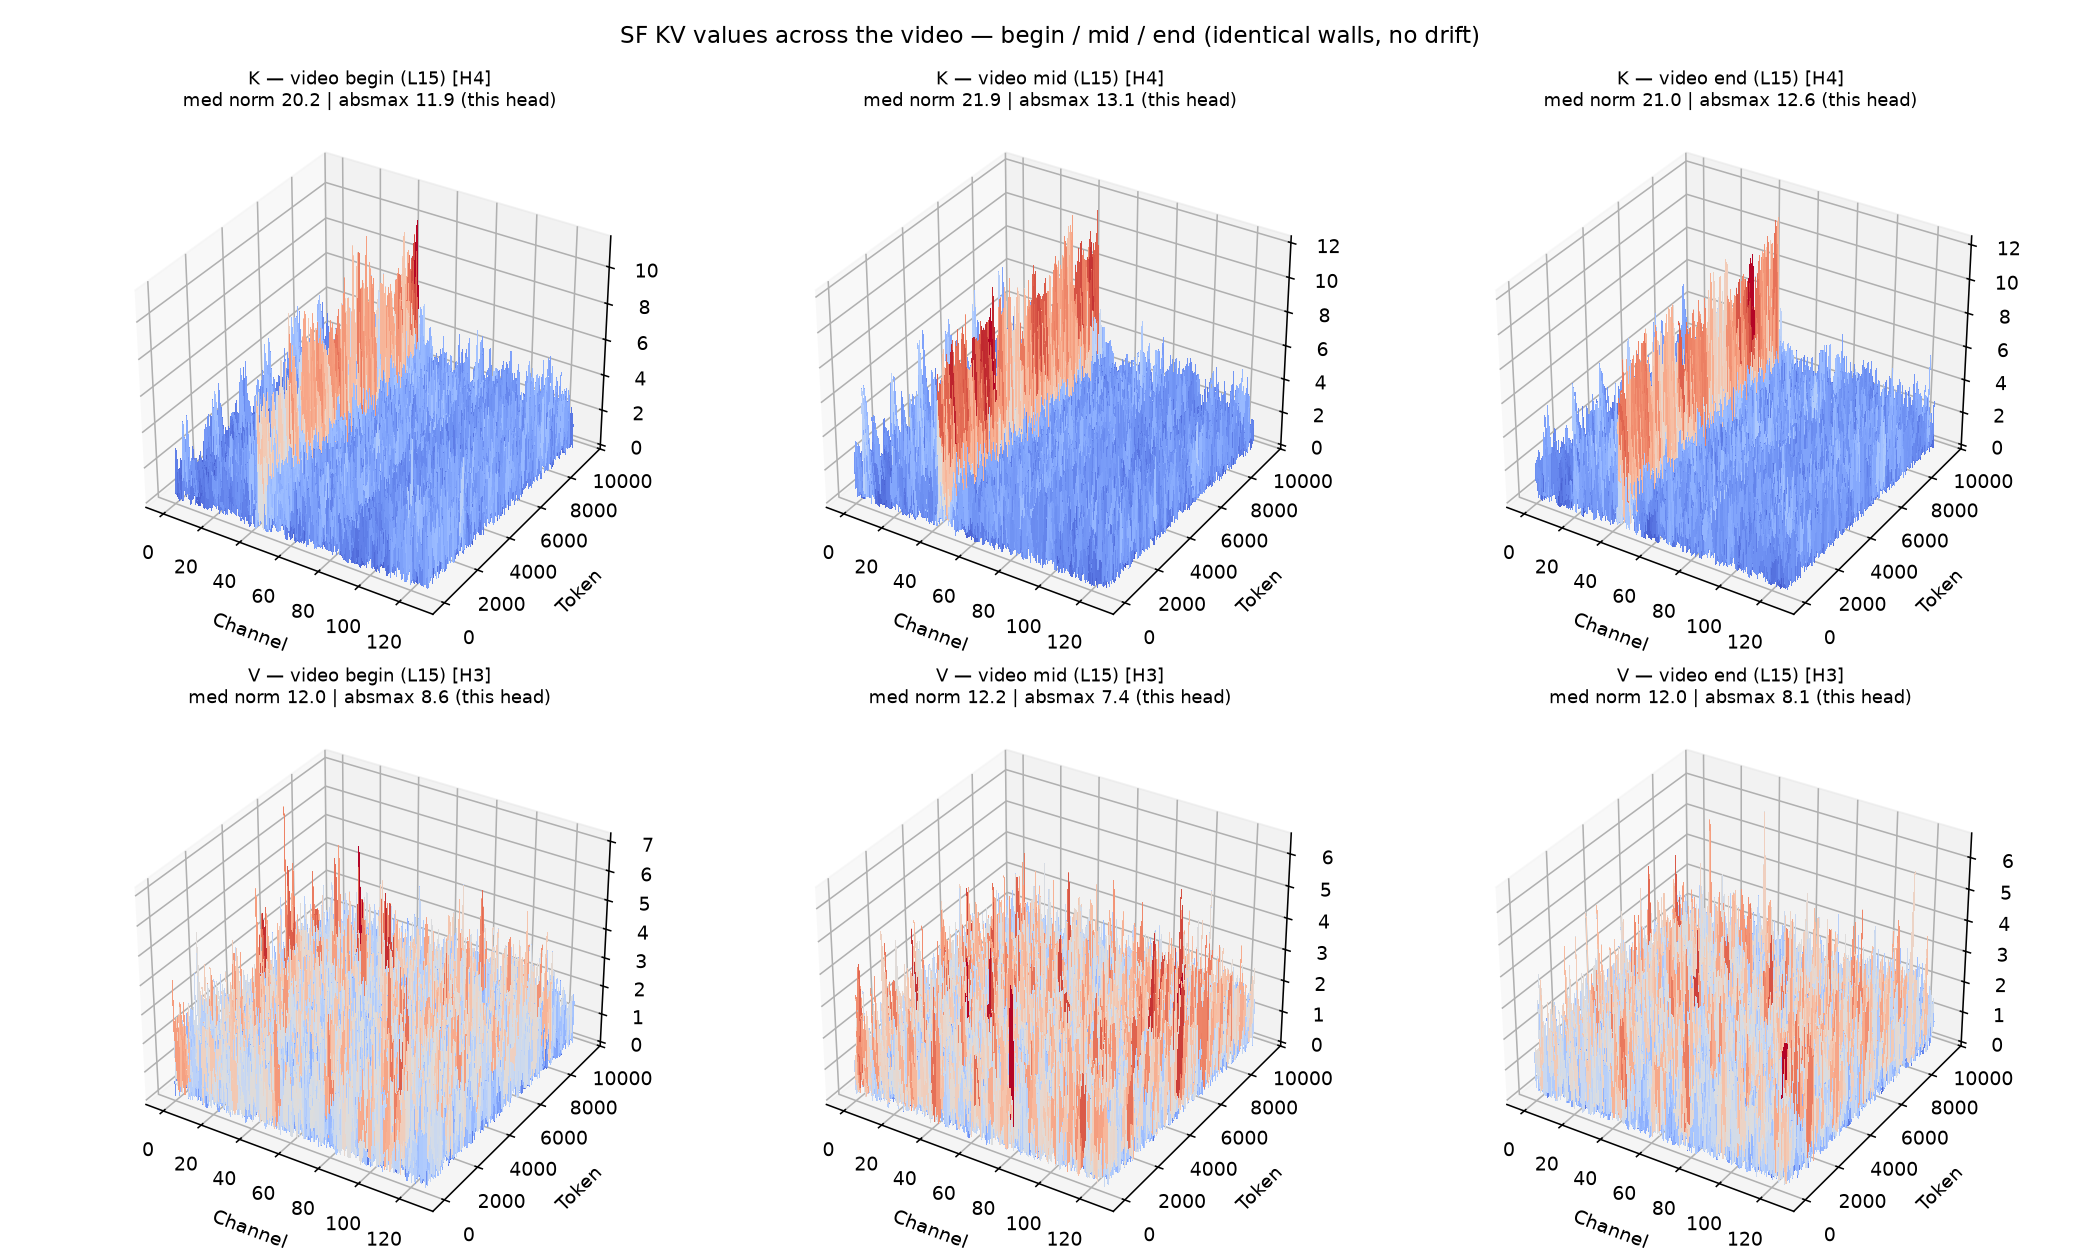
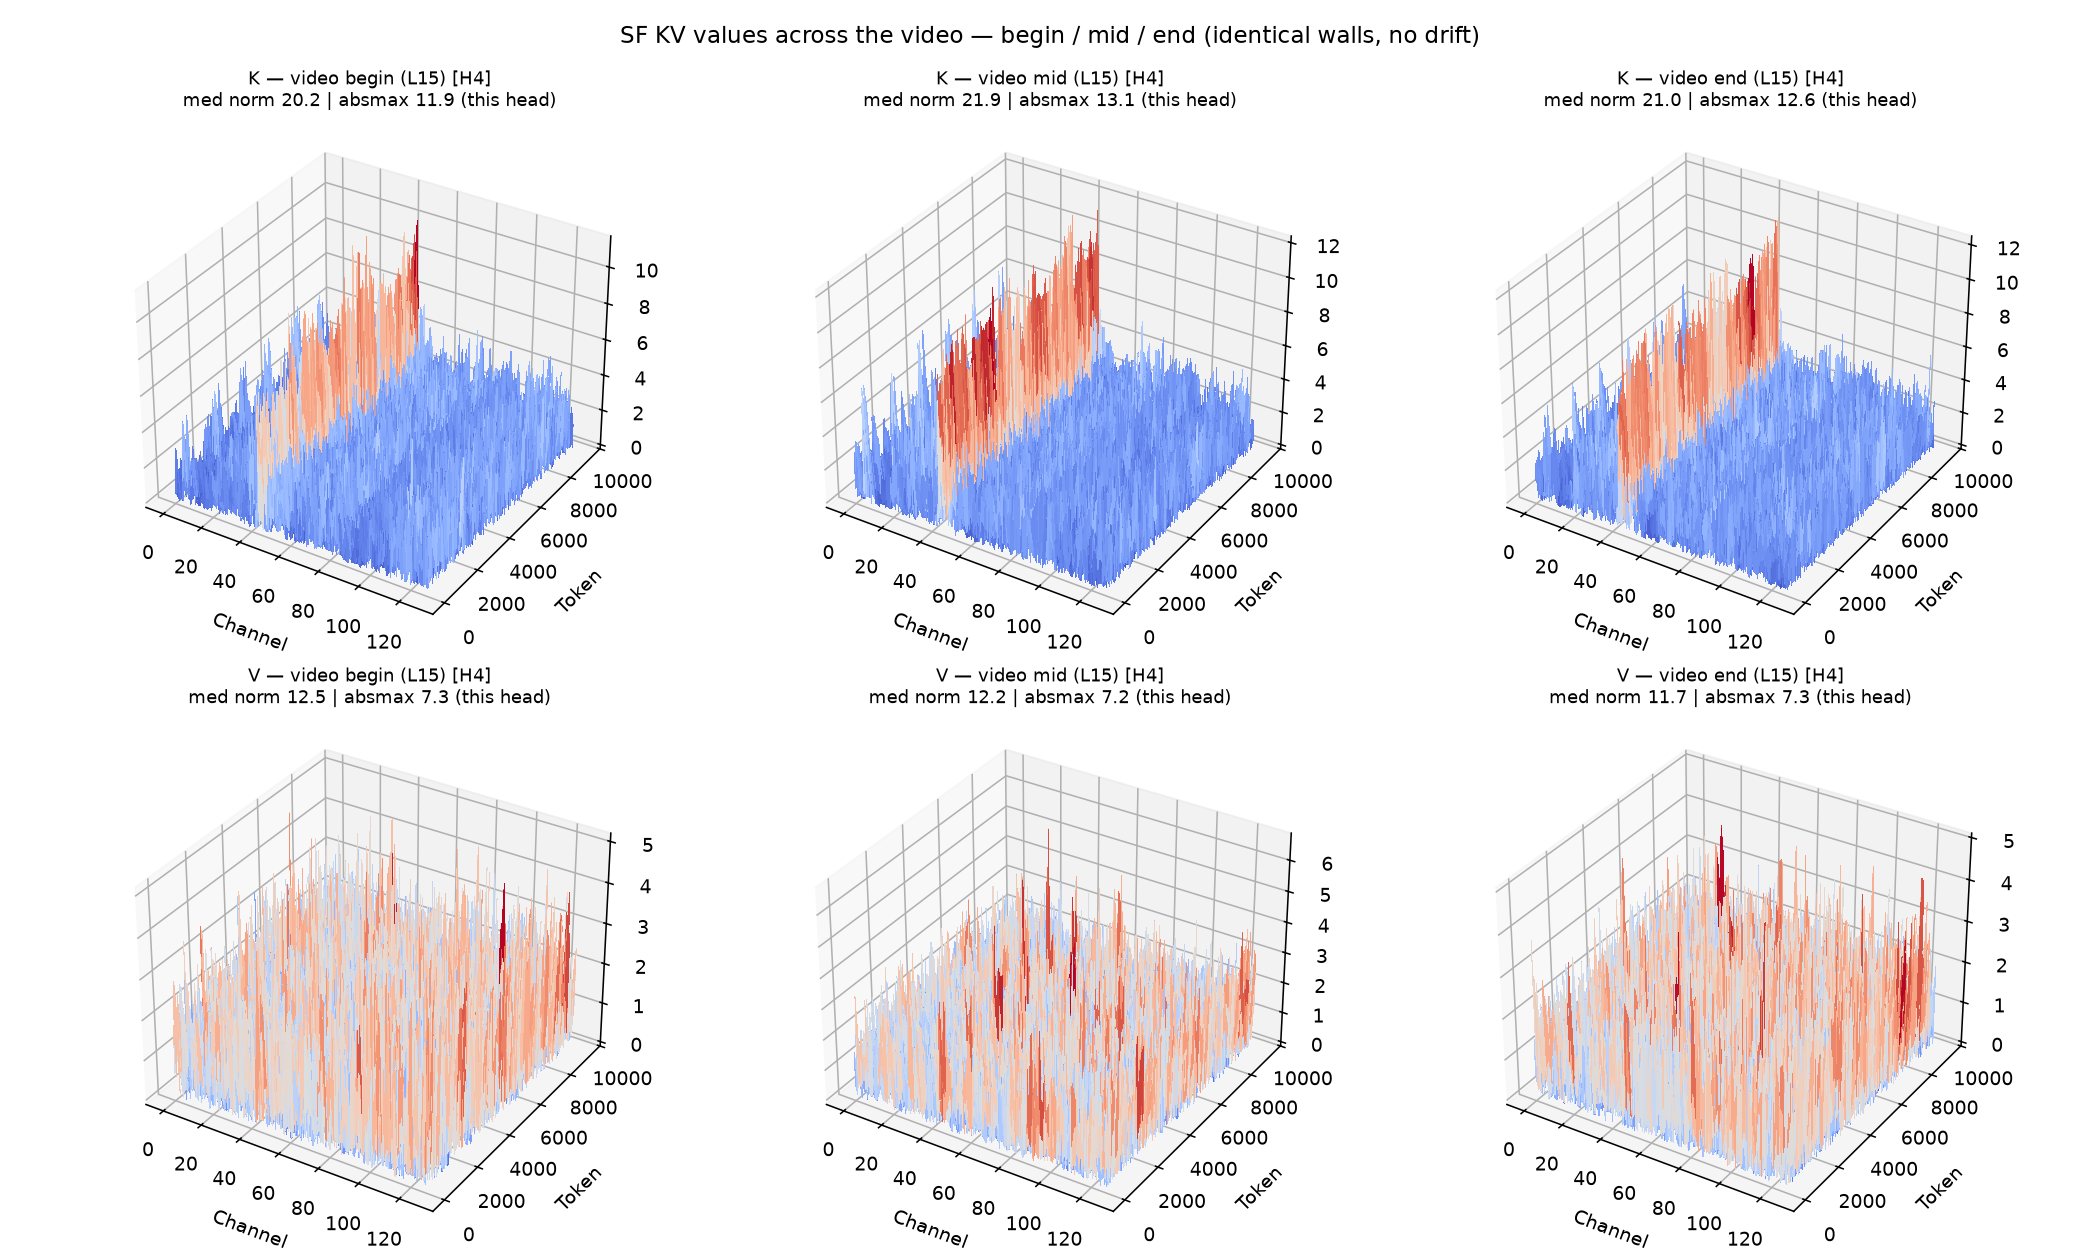
repro: comparison surfaces fixed to one head (H4) for cross-layer comparability; L29 H9 outlier shown as separate exhibit figure

Changed region(s): [[0.0619, 0.619, 0.3095, 0.9595], [0.7119, 0.619, 0.9595, 0.9595], [0.4024, 0.619, 0.619, 0.9286]]

diff --git a/repro/backup/scripts/plot_sf_kv_summary.py b/repro/backup/scripts/plot_sf_kv_summary.py
@@ -33,10 +33,13 @@ def get(layer, win, t):
 ROWS = 500
 
 
+FIXED_HEAD = 4  # comparison figures use ONE fixed head everywhere (user rule)
+
+
 def surf(ax, x, title, marks=(), head=None):
-    """head=None -> auto-pick the head with the largest absmax (the hot spot)."""
+    """head=None -> FIXED_HEAD. Pass head explicitly only for single exhibits."""
     if head is None:
-        head = int(x.abs().amax(dim=(0, 2)).argmax())
+        head = FIXED_HEAD
     m = np.abs(x[:, head, :].numpy())
     S, D = m.shape
     stride = max(1, S // ROWS)
@@ -56,10 +59,9 @@ def surf(ax, x, title, marks=(), head=None):
 
 # ---------------- Fig A: video begin / mid / end (L15) ----------------
 fig = plt.figure(figsize=(15, 9))
-hk = hv = None
 for j, w in enumerate(WIN):
-    hk = surf(fig.add_subplot(2, 3, j + 1, projection="3d"), get(15, w, "k"), f"K — video {w} (L15)", head=hk)
-    hv = surf(fig.add_subplot(2, 3, 3 + j + 1, projection="3d"), get(15, w, "v"), f"V — video {w} (L15)", head=hv)
+    surf(fig.add_subplot(2, 3, j + 1, projection="3d"), get(15, w, "k"), f"K — video {w} (L15)")
+    surf(fig.add_subplot(2, 3, 3 + j + 1, projection="3d"), get(15, w, "v"), f"V — video {w} (L15)")
 fig.suptitle("SF KV values across the video — begin / mid / end (identical walls, no drift)", fontsize=12)
 fig.tight_layout(); fig.savefig(os.path.join(FIGS, "sf_kv_time.png"), dpi=140); plt.close(fig)
 
@@ -93,7 +95,7 @@ fig.tight_layout(); fig.savefig(os.path.join(FIGS, "sf_kv_chunk.png"), dpi=140);
 fig = plt.figure(figsize=(16, 12))
 for j, l in enumerate(LAYERS):
     surf(fig.add_subplot(3, 3, j + 1, projection="3d"), get(l, "mid", "k"), f"K — layer {l} (mid window)")
-    surf(fig.add_subplot(3, 3, 3 + j + 1, projection="3d"), get(l, "mid", "v"), f"V — layer {l} (mid window)")  # per-layer hottest head
+    surf(fig.add_subplot(3, 3, 3 + j + 1, projection="3d"), get(l, "mid", "v"), f"V — layer {l} (mid window)")
 axk = fig.add_subplot(3, 3, 7)
 axk.boxplot([get(l, "mid", "k").norm(dim=-1).flatten().numpy() for l in LAYERS],
             tick_labels=[f"L{l}" for l in LAYERS], flierprops=dict(marker=".", markersize=2))
@@ -114,4 +116,11 @@ axb.set_title("absmax by depth (quantization range driver)", fontsize=9)
 axb.legend(); axb.grid(alpha=0.3, axis="y")
 fig.suptitle("SF KV across depth — last layer is the quantization hot spot", fontsize=12)
 fig.tight_layout(); fig.savefig(os.path.join(FIGS, "sf_kv_depth.png"), dpi=140); plt.close(fig)
-print("saved 3 figures")
+# ---------------- Fig D: L29 outlier-head exhibit (H4 vs H9) ----------------
+fig = plt.figure(figsize=(11, 4.8))
+x = get(29, "mid", "k")
+surf(fig.add_subplot(1, 2, 1, projection="3d"), x, "K — L29, normal head", head=4)
+surf(fig.add_subplot(1, 2, 2, projection="3d"), x, "K — L29, OUTLIER head", head=9)
+fig.suptitle("SF L29 K: head 9 is a whole-head outlier (same layer, same window, same scale rules)", fontsize=11)
+fig.tight_layout(); fig.savefig(os.path.join(FIGS, "sf_kv_l29_h9.png"), dpi=140); plt.close(fig)
+print("saved 4 figures")

diff --git a/repro/0714/qkv-anatomy.md b/repro/0714/qkv-anatomy.md
@@ -64,18 +64,22 @@ V ≈11.8 全程不动；离群尾的形态也一致。
 
 ![kv depth](figs/sf_kv_depth.png)
 
-读数：K 随深度单调恶化——L0 几根锐利的窄墙（最易压）、L15 墙变宽、
-**L29 出现覆盖半个 channel 轴的巨墙，absmax 爆到 93.5（中间层的 7 倍）**；V 三层始终
-均匀噪声（absmax 10.5/7.5/10.1）。每格曲面自动选该张量 absmax 最大的 head（标题 [Hx]），
-L29 的巨墙整个属于 head 9。底排 absmax 柱状图一眼可见 L29 的 K 独高。
+读数：所有格子固定同一个 head（H4）保证跨层可比——K 随深度单调恶化：L0 几根锐利的
+窄墙（最易压）、L15 墙变宽变高、L29 更密；V 三层始终均匀噪声。底排 absmax 柱状图
+（全 head 统计）可见 L29 的 K 独高（93.5，中间层 7 倍）——那部分能量在 head 9 上，
+见 §3.2 的展品图。
 
 ### 3.2 QKV norm
 
 ![qkv norm depth](figs/qkv_depth.png)
 
-读数：**L29 的高 norm "簇"实为一整个离群 head**——3D 曲面的 head 选择暴露了真相：
-H9 全头的 K norm 中位 104.8，其他 head ~15，7 倍分离；箱线图里悬空的那团就是 H9 的全部
-token。Q 同层的大离群（absmax 71）也在同方向。L0/L15 两层干净，V 三层箱形几乎相同。
+读数：**L29 的高 norm "簇"实为一整个离群 head**——H9 全头的 K norm 中位 104.8，
+其他 head ~15，7 倍分离；箱线图里悬空的那团就是 H9 的全部 token。同层同窗、同一套画法下
+H4 与 H9 的对比（下图）：
+
+![l29 h9](figs/sf_kv_l29_h9.png)
+
+Q 同层的大离群（absmax 71）也在同方向。L0/L15 两层干净，V 三层箱形几乎相同。
 
 ### 3.3 小结
 